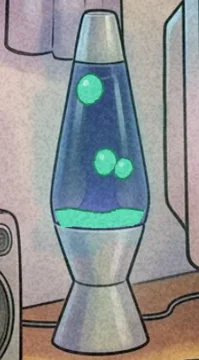
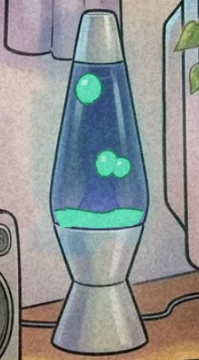
Soutien decor painted into the room: Gemini edits of room crops, composited by diff in a hand-set zone, relit for the night, no wobble

diff --git a/src/components/room/PaintedRoom.tsx b/src/components/room/PaintedRoom.tsx
@@ -536,8 +536,8 @@ function PaintedRoomView({
               {d.glow && !daytime && <span className={styles.skinGlow} style={glow(d, 60)} aria-hidden />}
               {d.shadow && <span className={styles.skinShadow} style={{ left: d.x + d.w * 0.08, top: d.y + d.h - 12, width: d.w * 0.84, height: 22 }} aria-hidden />}
               <img
-                className={`${styles.sprite} ${styles.skinThing}`}
-                src={d.src}
+                className={`${styles.sprite} ${d.still ? "" : styles.skinThing}`}
+                src={!daytime && d.srcNight ? d.srcNight : d.src}
                 style={{ ...place(d), transform: d.rot ? `rotate(${d.rot}deg)` : undefined }}
                 alt=""
                 draggable={false}
@@ -556,8 +556,8 @@ function PaintedRoomView({
           {/* the Soutien pack's plaque, the player's name engraved on it: there whatever is worn */}
           {patron && PLAQUE && (
             <span>
-              <span className={styles.skinShadow} style={{ left: PLAQUE.x + PLAQUE.w * 0.08, top: PLAQUE.y + PLAQUE.h - 10, width: PLAQUE.w * 0.84, height: 16 }} aria-hidden />
-              <img className={`${styles.sprite} ${styles.skinThing}`} src={PLAQUE.src} style={place(PLAQUE)} alt="" draggable={false} />
+              {PLAQUE.shadow && <span className={styles.skinShadow} style={{ left: PLAQUE.x + PLAQUE.w * 0.08, top: PLAQUE.y + PLAQUE.h - 10, width: PLAQUE.w * 0.84, height: 16 }} aria-hidden />}
+              <img className={`${styles.sprite} ${PLAQUE.still ? "" : styles.skinThing}`} src={!daytime && PLAQUE.srcNight ? PLAQUE.srcNight : PLAQUE.src} style={place(PLAQUE)} alt="" draggable={false} />
               <span className={styles.plaqueText} style={{ ...place(PLAQUE.text), fontSize: Math.round(PLAQUE.text.h * 0.36) }} aria-hidden>
                 <small>{tr("Mécène", "Patron")}</small>
                 {patronName.slice(0, 24)}

diff --git a/src/lib/skins.ts b/src/lib/skins.ts
@@ -26,6 +26,9 @@ export interface Placed extends Box {
   shadow?: boolean;
   /** flames that dance over the painted ones: the bottom of each, and its height (scene px) */
   flames?: { x: number; y: number; h: number }[];
+  /** painted into the room (build-skins SPOTS): its night picture, and it stays still (no hand-drawn wobble) */
+  srcNight?: string;
+  still?: boolean;
 }
 
 /** What a skin paints over the room: pictures cut by scripts/build-skins, placed in src/data/skin-art.json */
